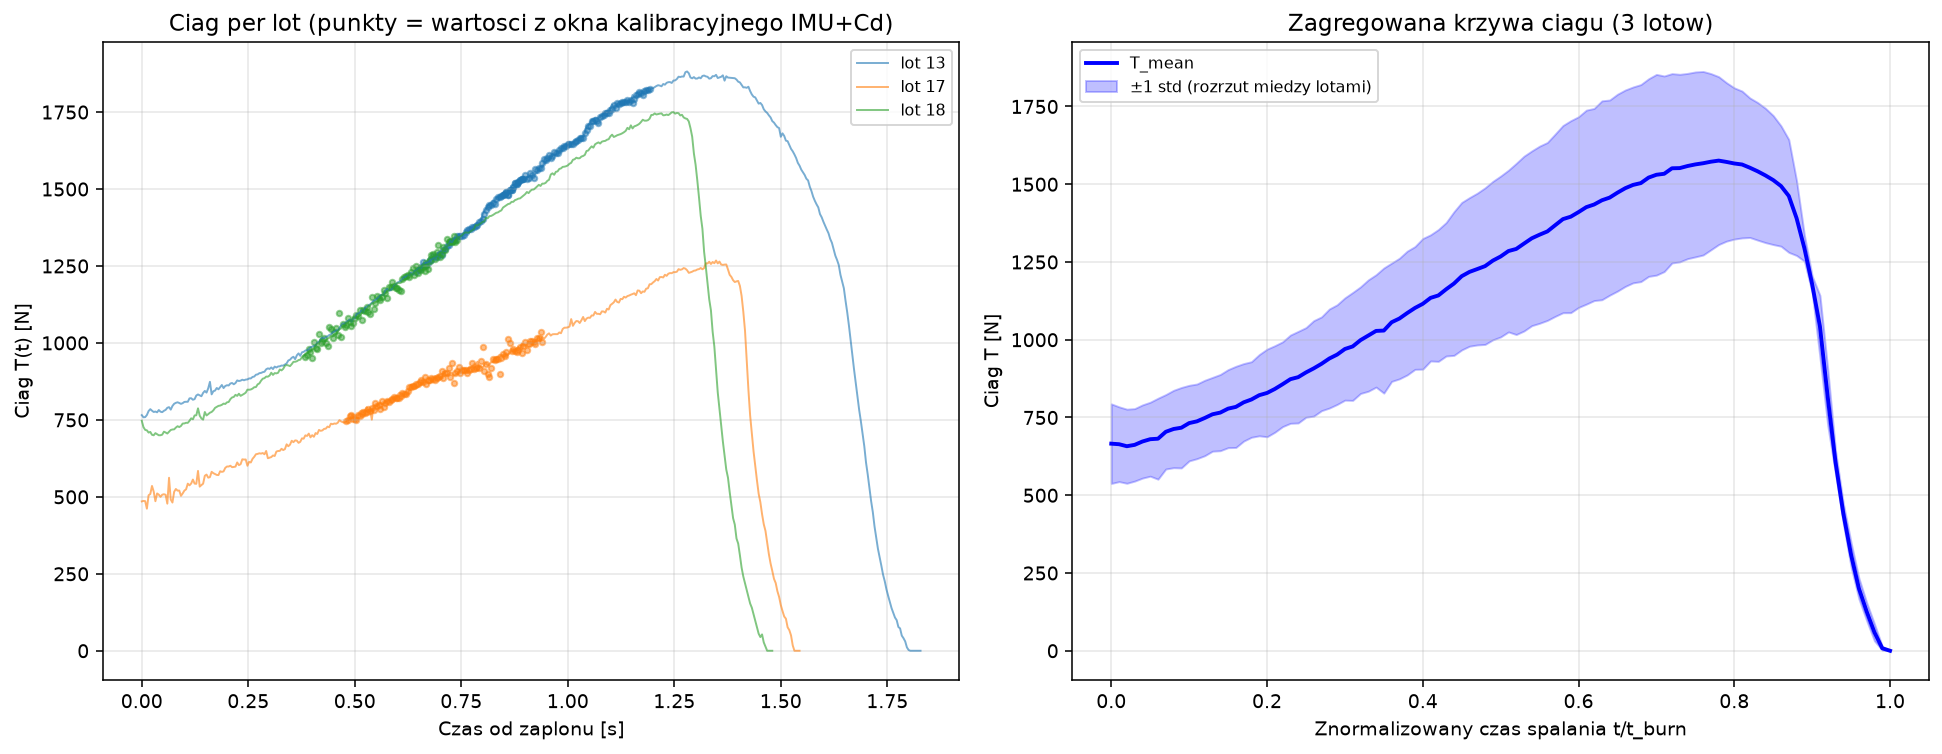
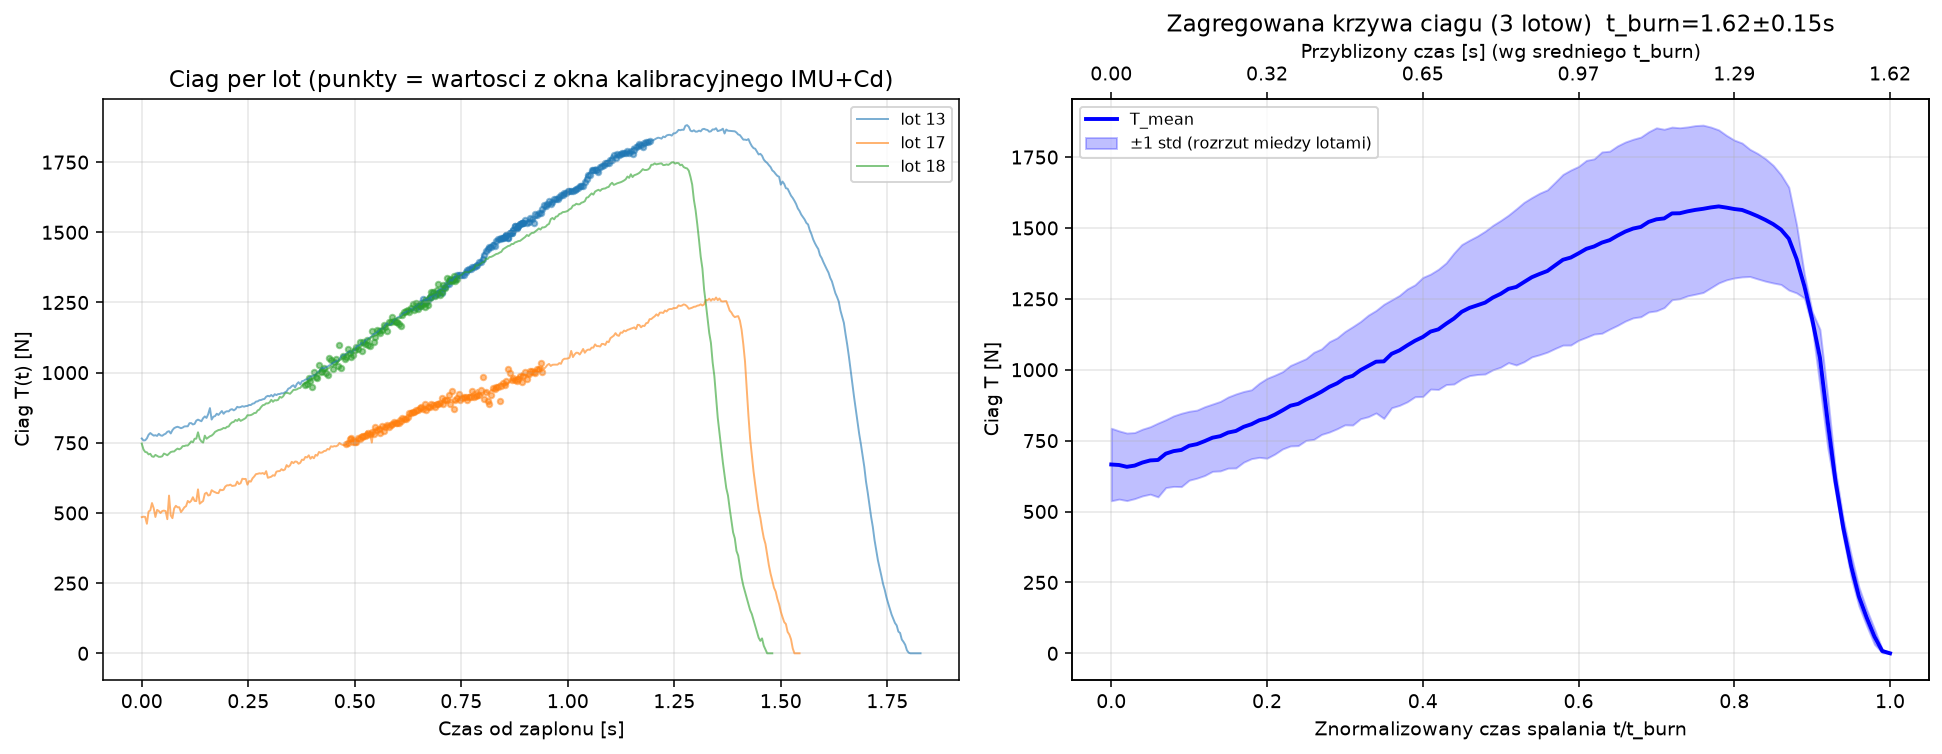
Add burn-time statistics (mean/std) to estimate_thrust.py
Reports actual burn duration mean+-std across flights (not just
normalized t/t_burn), saved to burn_time_stats.csv. Aggregate
thrust_mean_std.csv now also includes an approximate absolute-time
column (t_abs_mean_s) scaled by mean burn duration, and the aggregate
plot shows a secondary top axis in seconds.

Clarified that Cd is only ever interpolated (never extrapolated) in
the calibration window, since calib_mask bounds (Ma 0.2-0.5) exactly
match the descent-fitted MA_NODES range.

https://claude.ai/code/session_01QNsbYokreJmmKpoSq2s61r

diff --git a/FlightSim/telemetry_analysis/estimate_thrust.py b/FlightSim/telemetry_analysis/estimate_thrust.py
@@ -182,10 +182,40 @@ def save_calibration_csv(results, out_dir):
     return csv_path
 
 
-def save_aggregate_csv(results, out_dir, n_grid=101):
+def burn_time_stats(results):
+    """Srednia i odchylenie standardowe rzeczywistego czasu spalania [s]."""
+    t_burns = np.array([r["t_burn"] for r in results])
+    return dict(
+        mean=float(np.mean(t_burns)), std=float(np.std(t_burns)),
+        min=float(np.min(t_burns)), max=float(np.max(t_burns)),
+        n=len(t_burns), per_flight={r["flight_no"]: r["t_burn"] for r in results},
+    )
+
+
+def save_burn_time_csv(bstats, out_dir):
+    csv_path = Path(out_dir) / "burn_time_stats.csv"
+    with open(csv_path, "w", newline="", encoding="utf-8") as f:
+        writer = csv.writer(f)
+        writer.writerow(["flight_no", "t_burn_s"])
+        for fno, tb in sorted(bstats["per_flight"].items()):
+            writer.writerow([fno, f"{tb:.4f}"])
+        writer.writerow([])
+        writer.writerow(["mean_s", f"{bstats['mean']:.4f}"])
+        writer.writerow(["std_s", f"{bstats['std']:.4f}"])
+        writer.writerow(["min_s", f"{bstats['min']:.4f}"])
+        writer.writerow(["max_s", f"{bstats['max']:.4f}"])
+        writer.writerow(["n_flights", bstats["n"]])
+    return csv_path
+
+
+def save_aggregate_csv(results, out_dir, bstats, n_grid=101):
     """
     Resampluje T(t) kazdego lotu na wspolna os t/t_burn (0..1) i liczy
     srednia oraz odchylenie standardowe miedzy lotami w kazdym punkcie.
+
+    Dodatkowo: t_abs_mean_s = frac * mean(t_burn) — przyblizona os
+    czasu w sekundach (uzywajac SREDNIEGO czasu spalania), do orientacji
+    rzeczywistej dlugosci spalania (nie tylko znormalizowanej).
     """
     frac_grid = np.linspace(0.0, 1.0, n_grid)
     T_matrix = []
@@ -197,19 +227,20 @@ def save_aggregate_csv(results, out_dir, n_grid=101):
 
     T_mean = T_matrix.mean(axis=0)
     T_std  = T_matrix.std(axis=0)
+    t_abs_mean = frac_grid * bstats["mean"]
 
     csv_path = Path(out_dir) / "thrust_mean_std.csv"
     with open(csv_path, "w", newline="", encoding="utf-8") as f:
         writer = csv.writer(f)
-        writer.writerow(["t_frac_burn", "T_mean_N", "T_std_N", "n_flights"])
-        for frac, mu, sd in zip(frac_grid, T_mean, T_std):
-            writer.writerow([f"{frac:.4f}", f"{mu:.3f}", f"{sd:.3f}", len(results)])
+        writer.writerow(["t_frac_burn", "t_abs_mean_s", "T_mean_N", "T_std_N", "n_flights"])
+        for frac, t_abs, mu, sd in zip(frac_grid, t_abs_mean, T_mean, T_std):
+            writer.writerow([f"{frac:.4f}", f"{t_abs:.4f}", f"{mu:.3f}", f"{sd:.3f}", len(results)])
 
     return csv_path, frac_grid, T_mean, T_std, T_matrix
 
 
 # --------------------------------------------------------------------------
-def plot_results(results, frac_grid, T_mean, T_std, T_matrix, out_dir):
+def plot_results(results, frac_grid, T_mean, T_std, T_matrix, bstats, out_dir):
     fig, axes = plt.subplots(1, 2, figsize=(14, 5.5))
 
     ax0 = axes[0]
@@ -221,12 +252,21 @@ def plot_results(results, frac_grid, T_mean, T_std, T_matrix, out_dir):
     ax0.legend(fontsize=8); ax0.grid(alpha=0.3)
 
     ax1 = axes[1]
-    t_frac_abs = frac_grid   # znormalizowany czas spalania
-    ax1.plot(t_frac_abs, T_mean, 'b-', lw=2, label="T_mean")
-    ax1.fill_between(t_frac_abs, T_mean - T_std, T_mean + T_std,
+    t_abs_mean = frac_grid * bstats["mean"]
+    ax1.plot(frac_grid, T_mean, 'b-', lw=2, label="T_mean")
+    ax1.fill_between(frac_grid, T_mean - T_std, T_mean + T_std,
                      alpha=0.25, color='b', label="±1 std (rozrzut miedzy lotami)")
     ax1.set_xlabel("Znormalizowany czas spalania t/t_burn"); ax1.set_ylabel("Ciag T [N]")
-    ax1.set_title(f"Zagregowana krzywa ciagu ({len(results)} lotow)")
+    ax1.set_title(f"Zagregowana krzywa ciagu ({len(results)} lotow)  "
+                  f"t_burn={bstats['mean']:.2f}±{bstats['std']:.2f}s")
+
+    # druga os X: przyblizone sekundy (skala przez sredni czas spalania)
+    ax1_top = ax1.twiny()
+    ax1_top.set_xlim(ax1.get_xlim())
+    ax1_top.set_xticks(frac_grid[::20])
+    ax1_top.set_xticklabels([f"{v:.2f}" for v in t_abs_mean[::20]])
+    ax1_top.set_xlabel("Przyblizony czas [s] (wg sredniego t_burn)")
+
     ax1.legend(fontsize=8); ax1.grid(alpha=0.3)
 
     plt.tight_layout()
@@ -271,13 +311,22 @@ def main():
         return
 
     save_calibration_csv(results, out_dir)
-    csv_path, frac_grid, T_mean, T_std, T_matrix = save_aggregate_csv(results, out_dir)
+
+    bstats = burn_time_stats(results)
+    save_burn_time_csv(bstats, out_dir)
+
+    csv_path, frac_grid, T_mean, T_std, T_matrix = save_aggregate_csv(results, out_dir, bstats)
     print(f"Zapisano: {csv_path}")
 
-    plot_results(results, frac_grid, T_mean, T_std, T_matrix, out_dir)
+    plot_results(results, frac_grid, T_mean, T_std, T_matrix, bstats, out_dir)
 
     print(f"\nPodsumowanie ({len(results)} lotow):")
-    print(f"  T_mean peak = {T_mean.max():.1f} N przy t/t_burn={frac_grid[np.argmax(T_mean)]:.2f}")
+    print(f"  Czas spalania t_burn = {bstats['mean']:.3f} ± {bstats['std']:.3f} s  "
+          f"(min={bstats['min']:.3f}s  max={bstats['max']:.3f}s)")
+    for fno, tb in sorted(bstats["per_flight"].items()):
+        print(f"    lot {fno}: t_burn={tb:.3f}s")
+    print(f"  T_mean peak = {T_mean.max():.1f} N przy t/t_burn={frac_grid[np.argmax(T_mean)]:.2f}  "
+          f"(~{frac_grid[np.argmax(T_mean)]*bstats['mean']:.2f}s)")
     print(f"  T_std peak  = {T_std[np.argmax(T_mean)]:.1f} N "
           f"({100*T_std[np.argmax(T_mean)]/T_mean.max():.1f}% rozrzutu)")
 
